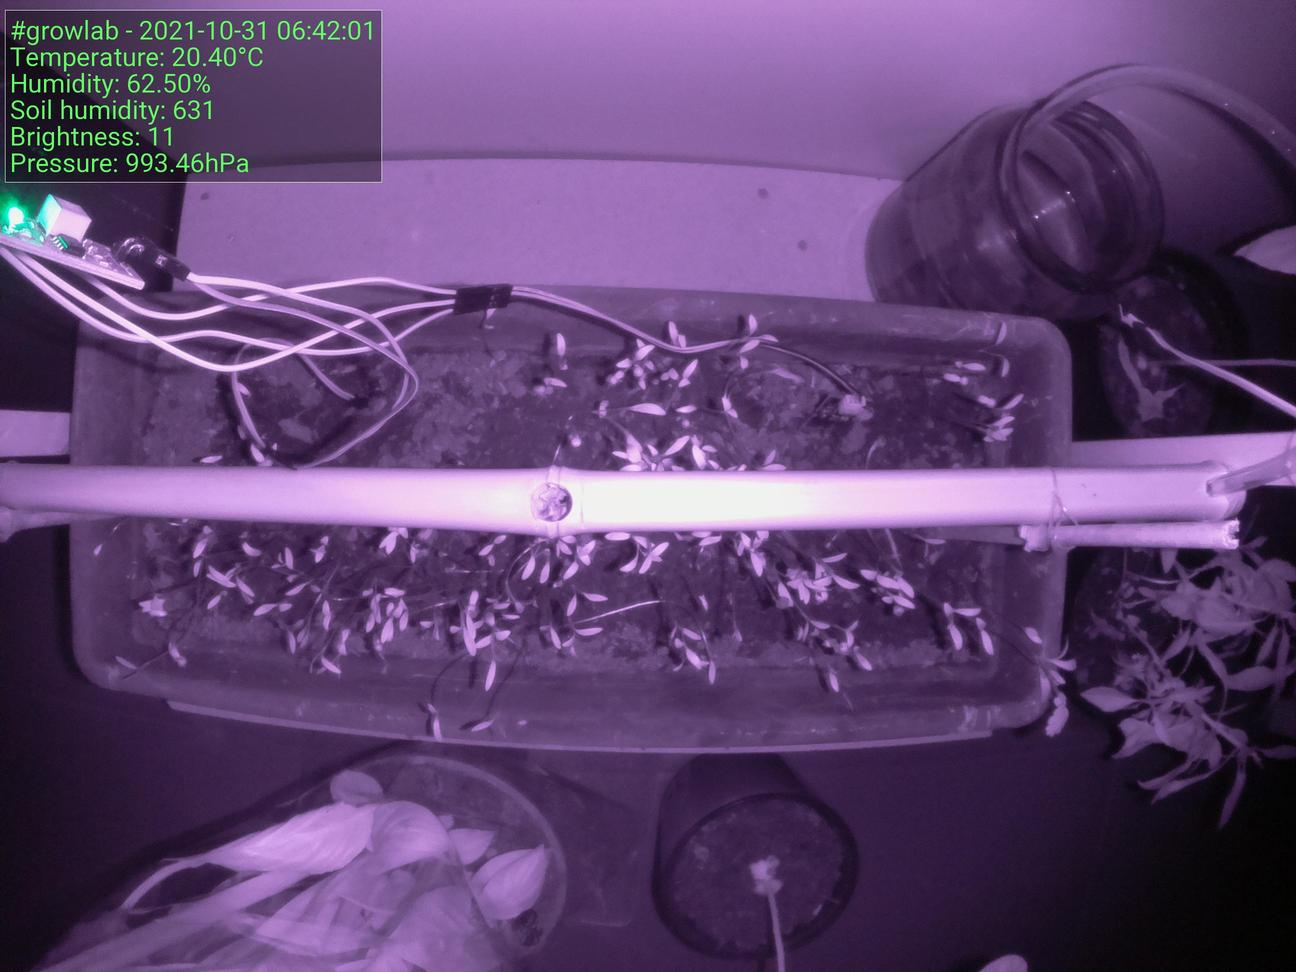
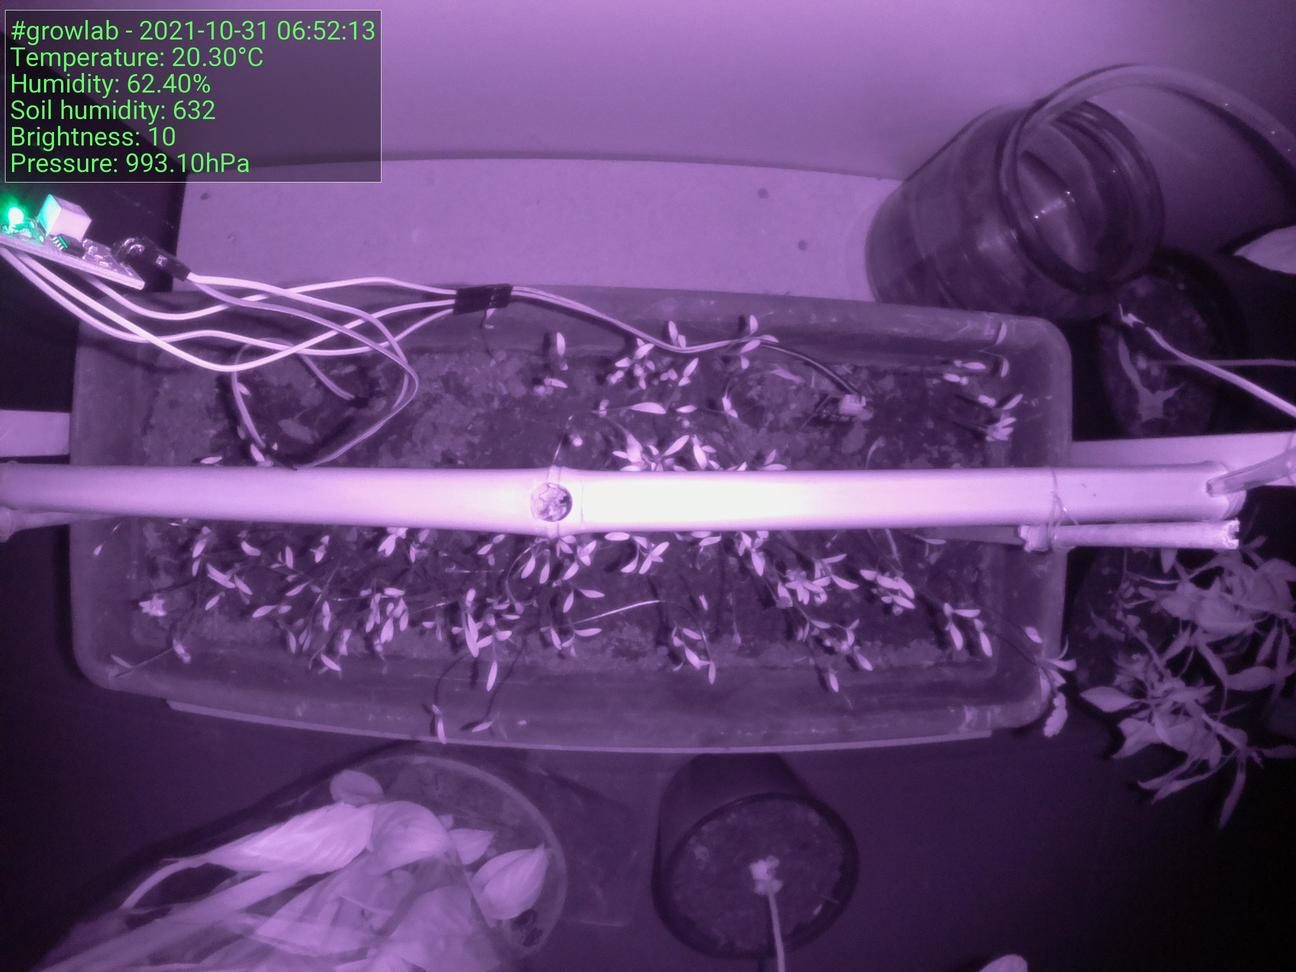
:bento: Update preview

diff --git a/index.html b/index.html
@@ -39,15 +39,15 @@
                     <tbody>
                         <tr>
                             <td>Time</td>
-                            <td>2021-10-31 06:42:01</td>
+                            <td>2021-10-31 06:52:13</td>
                         </tr>
                         <tr>
                             <td>Temperature</td>
-                            <td>20.40°C</td>
+                            <td>20.30°C</td>
                         </tr>
                         <tr>
                             <td>Humidity</td>
-                            <td>62.50%</td>
+                            <td>62.40%</td>
                         </tr>
                     </tbody>
                 </table>
@@ -55,7 +55,7 @@
 
                 <h5>Latest image</h5>
 		<div style="width: 85%;">
-	                <img class="figure-img img-fluid rounded" src="./preview.jpg?uid=1635658928.9169238">
+	                <img class="figure-img img-fluid rounded" src="./preview.jpg?uid=1635659540.2851703">
 		</div>
             </div>
         </div>
